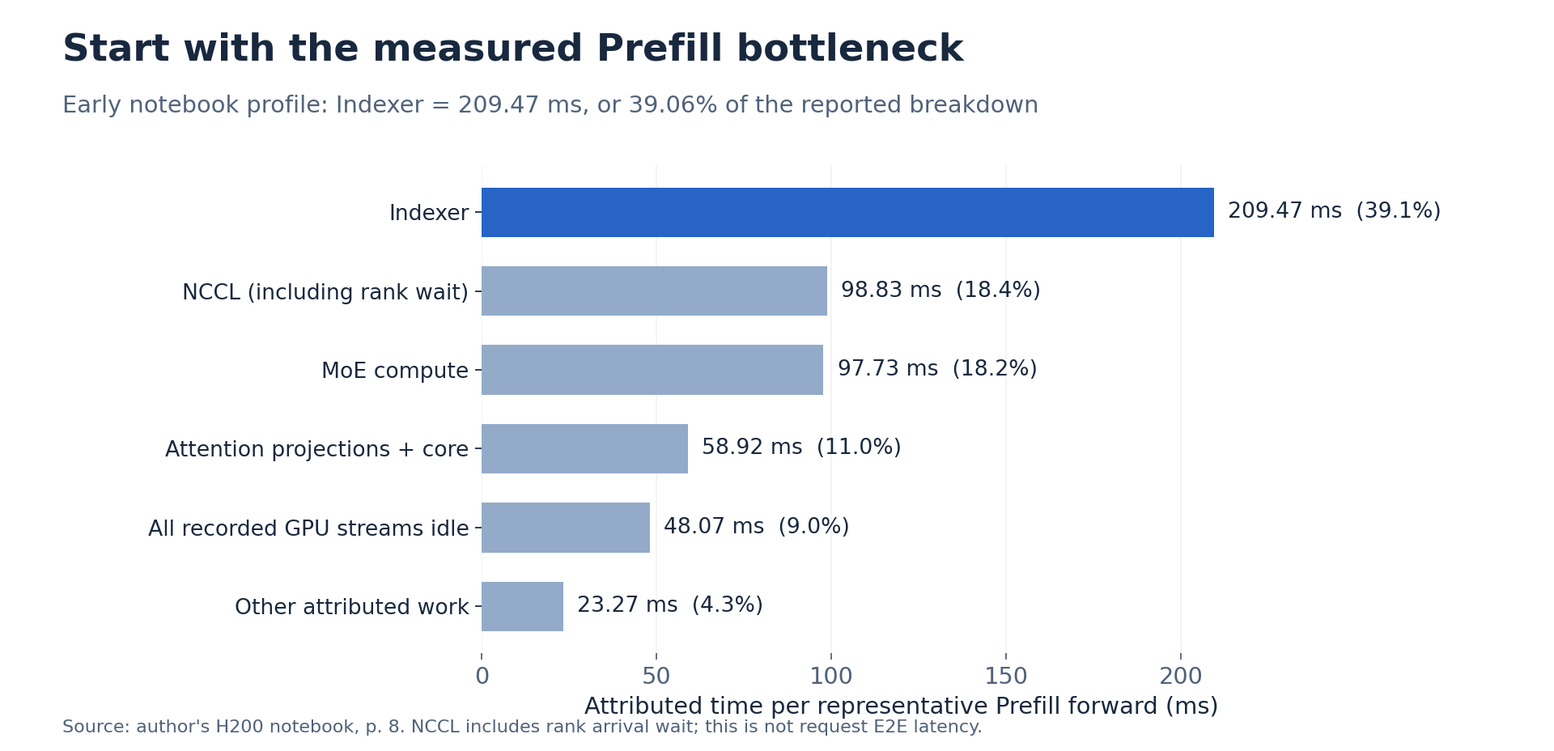
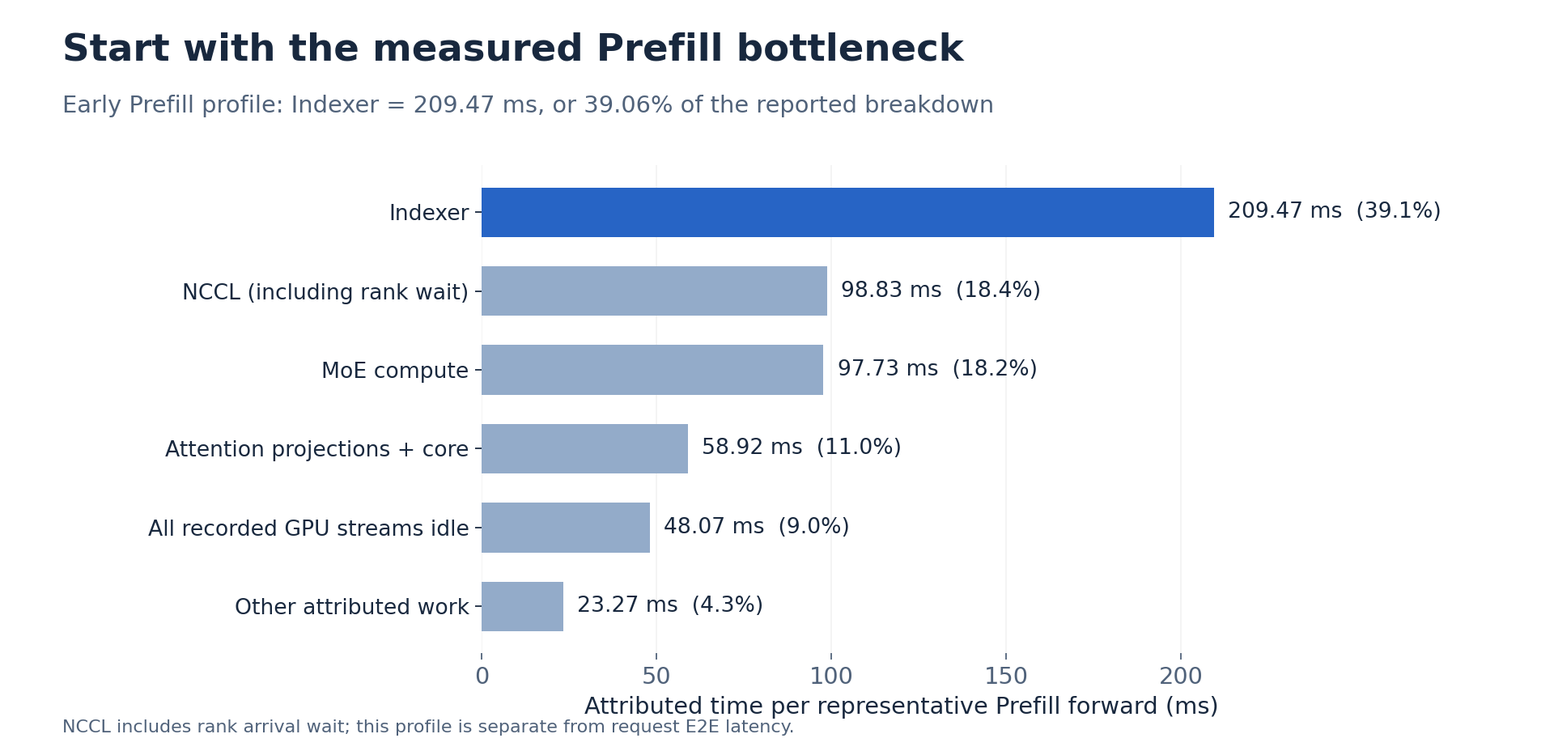
update file

Changed region(s): [[0.0312, 0.9375, 0.5, 1.0], [0.0625, 0.125, 0.6562, 0.1562], [0.5625, 0.9375, 0.625, 0.9688]]

diff --git a/blog/2026-11-05-deepseek-v41-h200-pd-optimization.md b/blog/2026-11-05-deepseek-v41-h200-pd-optimization.md
@@ -28,13 +28,13 @@ The deployment separates prompt processing from token generation. The Prefill wo
 
 *Figure 1. The measured 1P1D topology. The handoff includes the KV and model state required to continue generation. Client-visible TTFT includes queueing and handoff costs as well as Prefill computation.*
 
-The notebook first identified a supply problem on the P side. Requests accumulated in the Prefill queue even at modest concurrency, while the Decode worker's available cache capacity did not explain the queueing. We therefore concentrated on reducing Prefill service time before considering a different P/D ratio.
+We first identified a supply problem on the P side. Requests accumulated in the Prefill queue even at modest concurrency, while the Decode worker's available cache capacity did not explain the queueing. We therefore concentrated on reducing Prefill service time before considering a different P/D ratio.
 
 The evaluated H200 configuration uses the Torch BF16 Prefill Indexer scoring path. Its bottlenecks differ from the Blackwell path that uses DeepGEMM for the relevant Indexer operations. A representative early profile attributed **209.47 ms, or 39.06% of the reported per-forward breakdown, to the Indexer**. MoE computation and NCCL each accounted for approximately another 18%.
 
 ![Early Prefill profile, highlighting Indexer computation and the remaining major costs](/images/blog/deepseek-v41-h200-pd/initial-profile.png)
 
-*Figure 2. Redrawn from the H200 notebook, §2.3–2.4. This is a representative Prefill profile, separate from request E2E latency. NCCL attribution includes waiting for other ranks. The Attention category combines the reported projection and core-attention categories; the smaller remaining compute categories are grouped together.*
+*Figure 2. A representative early Prefill profile, separate from request E2E latency. NCCL attribution includes waiting for other ranks. The Attention category combines the reported projection and core-attention categories; the smaller remaining compute categories are grouped together.*
 
 ### Measurement Setup
 
@@ -42,21 +42,27 @@ We developed the optimizations in this article on top of our earlier [PR #40323]
 
 All baseline and optimized experiments in this article use the **same model weights** from [deepseek-ai/DeepSeek-V4.1-Flash](https://huggingface.co/deepseek-ai/DeepSeek-V4.1-Flash) on Hugging Face.
 
-The workload uses nominal **65,536-token inputs and 512-token outputs**. The case labels **50%, 70%, and 90%** correspond to configured shared-prefix lengths of **32,768, 46,080, and 61,440 tokens**, respectively, with request-specific suffixes of 32,768, 19,456, and 4,096 tokens. Their concurrency levels are 4 and 8; 8 and 16; and 8, 16, 24, and 32. These are nominal case labels; the exact configured prefix fractions are 50.0%, 70.3%, and 93.75%. Figure 6's original 0.93 label refers to the same 61,440-token-prefix case shown as nominal 90% elsewhere.
+The workload uses nominal **65,536-token inputs and 512-token outputs**. The case labels **50%, 70%, and 90%** correspond to configured shared-prefix lengths of **32,768, 46,080, and 61,440 tokens**, respectively, with request-specific suffixes of 32,768, 19,456, and 4,096 tokens. Their concurrency levels are 4 and 8; 8 and 16; and 8, 16, 24, and 32. These are nominal case labels; the exact configured prefix fractions are 50.0%, 70.3%, and 93.75%. Figure 7's original 0.93 label refers to the same 61,440-token-prefix case shown as nominal 90% elsewhere.
 
-Each baseline and optimized serving configuration in this article is benchmarked **three times per workload case**, with **512 requests and 10 warmup requests per run**. Each run produces request-level mean latencies, labeled **TTFT-mean, TPOT-mean, and E2E-mean**. For each metric, we compute the **mean and standard deviation (SD) across the three per-run means**. The reported latency means are therefore averages of three run means; SD describes variation between runs, rather than the spread of individual request latencies within a run.
+Each baseline and optimized serving configuration in this article is benchmarked **three times per workload case**, with **512 requests and 10 warmup requests per run**. Each run produces request-level mean latencies, labeled **TTFT-mean, TPOT-mean, and E2E-mean**. For each metric, we compute the **mean and sample standard deviation (SD) across the three per-run means**. SD is calculated with Python's `statistics.stdev()`, equivalent to **`ddof=1`**, with denominator **`3 − 1 = 2`**. The reported latency means are therefore averages of three run means; SD describes variation between runs, rather than the spread of individual request latencies within a run.
 
-The updated performance screenshots display optimized TTFT and TPOT as **mean/SD**. SD has the same units as its latency metric. The baseline and E2E columns show the three-run means without the corresponding SD values. This serving-benchmark protocol is separate from the kernel microbenchmarks, GPU trace samples, and GSM8K evaluations. The initial Indexer experiments explicitly disable Prefill BCG.
+The updated performance screenshots display optimized TTFT and TPOT as **mean/SD**. SD has the same units as its latency metric. The baseline and E2E columns show the three-run means without the corresponding SD values. Small differences in mean latency should be interpreted alongside run-to-run variation; these summaries alone do not establish statistical significance. This serving-benchmark protocol is separate from the kernel microbenchmarks, GPU trace samples, and GSM8K evaluations. The initial Indexer experiments explicitly disable Prefill BCG.
 
 In the benchmark screenshots, TTFT and E2E latency are in milliseconds; TPOT is in milliseconds per output token. We calculate reductions from the displayed absolute values as `(baseline − optimized) / baseline`. These calculated reductions can differ slightly from the percentages printed in the original screenshots.
 
-The experiments share a development starting point. Sections 1–3 each start from commit `d0a75654368a470d8484e3ea45b06e500fee57af` and evaluate their respective optimizations independently. Section 4 starts from that same commit with all three Indexer optimizations cherry-picked together. Sections 5 and 6 build on the optimizations from Sections 1–4, evaluating MoE output reduce-scatter and bounded replay, respectively. Section 5 reports a separate set of benchmark measurements; Section 6 uses Section 4's reported results as its baseline. Runtime changes and chunk settings follow the individual experiments described below, and complete per-run SGLang revision records are not available for every table. The chunk-size comparison in Section 4 comes from §2.5 of the H200 experiment notebook.
+The experiments share a development starting point. Sections 1–3 each start from commit `d0a75654368a470d8484e3ea45b06e500fee57af` and evaluate their respective optimizations independently. Section 4 starts from that same commit with all three Indexer optimizations cherry-picked together. Sections 5 and 6 build on the optimizations from Sections 1–4, evaluating MoE output reduce-scatter and bounded replay, respectively. Section 5 reports a separate set of benchmark measurements; Section 6 uses Section 4's reported results as its baseline. Runtime changes and chunk settings follow the individual experiments described below, and complete per-run SGLang revision records are not available for every table.
+
+**Pre-optimization performance baseline.** Figure 3 reports the original serving baseline measured at commit `d0a75654368a470d8484e3ea45b06e500fee57af`, before the optimizations described in this article. **SWA bounded replay is disabled**: `--enable-decoder-swa-bounded-replay` is not passed. Both Prefill token limits are **8,192**: **`--chunked-prefill-size 8192`** and **`--max-prefill-tokens 8192`**. These original baseline values are used in the Sections 1–3 comparisons and the overall combined comparison; later sections identify their own baselines with earlier optimizations already applied.
+
+![Pre-optimization serving performance at the original development commit](/images/blog/deepseek-v41-h200-pd/baseline-perf.png)
+
+*Figure 3. Pre-optimization performance baseline at `d0a7565`, with SWA bounded replay disabled and both Prefill token limits set to 8192. TTFT and E2E are in milliseconds; TPOT is in milliseconds per output token. Values are three-run means; SD is not shown.*
 
 The baseline GSM8K evaluation shown below uses **1,319 single-shot examples** and scores **96.74%**, with no request errors or truncated outputs.
 
 ![Baseline GSM8K single-shot accuracy on 1,319 examples](/images/blog/deepseek-v41-h200-pd/baseline-acc.png)
 
-*Figure 3. Baseline GSM8K evaluation: 96.74% accuracy on 1,319 single-shot examples, with 0.00% error and truncated rates.*
+*Figure 4. Baseline GSM8K evaluation: 96.74% accuracy on 1,319 single-shot examples, with 0.00% error and truncated rates.*
 
 ### Model Operations Behind the Optimizations
 
@@ -70,13 +76,13 @@ Sharing has two distinct meanings here. KV consumers share compressed KV and Ind
 
 ![Model execution stages and the locations of the six optimizations](/images/blog/deepseek-v41-h200-pd/model-execution.svg)
 
-*Figure 4. Model execution, separate from GPU allocation in Figure 1. Section numbers identify the six changes. The Indexer branches represent alternative scoring implementations; the detailed compatibility of alignment, candidate scoring, and epilogue fusion is explained after Section 3. MoE follows attention within each model layer. The late-layer tail is an opt-in Prefill approximation, and the Decode metadata change belongs to Section 4.*
+*Figure 5. Model execution, separate from GPU allocation in Figure 1. Section numbers identify the six changes. The Indexer branches represent alternative scoring implementations; the detailed compatibility of alignment, candidate scoring, and epilogue fusion is explained after Section 3. MoE follows attention within each model layer. The late-layer tail is an opt-in Prefill approximation, and the Decode metadata change belongs to Section 4.*
 
 ## 1. Align the BF16 Prefill Indexer Score Width
 
 **Baseline and comparison.** Both configurations start from commit `d0a75654368a470d8484e3ea45b06e500fee57af` and include the same CP request-row mapping fix. The optimized run adds the score-width alignment change from PR #45794. This is an independent comparison with 8,192-token Prefill chunks.
 
-[PR #45794](https://github.com/sgl-project/sglang/pull/45794) addresses a surprising observation: nearby Indexer score widths could have very different GEMM costs. The notebook's cross-rank trace showed much faster execution at a 64-aligned width than at neighboring unaligned widths. Almost identical dimensions and similar strides still resulted in different kernel behavior.
+[PR #45794](https://github.com/sgl-project/sglang/pull/45794) addresses a surprising observation: nearby Indexer score widths could have very different GEMM costs. Cross-rank profiling showed much faster execution at a 64-aligned width than at neighboring unaligned widths. Almost identical dimensions and similar strides still resulted in different kernel behavior.
 
 The scoring operation takes query rows across heads and compares them with the request's visible compressed keys. Its large intermediate has shape `[query_rows, heads, visible_keys]`. Padding the physical key extent can improve the GEMM shape even though it adds a small amount of arithmetic. For example, one extra column changes width 28,799 to 28,800, a multiple of 64. The measured improvement is shape-dependent. More favorable kernel dispatch, tiling, or memory alignment could explain it, but the available traces do not establish the precise hardware cause.
 
@@ -84,7 +90,7 @@ For CUDA BF16 keys with at least 1,024 visible positions, the patch pads the deq
 
 ![Score-width alignment before and after, retaining the logical selection range](/images/blog/deepseek-v41-h200-pd/score-alignment.svg)
 
-*Figure 5. Physical padding improves the GEMM shape while selection still operates on the original logical positions. Padded columns never become eligible candidates.*
+*Figure 6. Physical padding improves the GEMM shape while selection still operates on the original logical positions. Padded columns never become eligible candidates.*
 
 The PR's scoring microbenchmark includes the epilogue and the padding cost:
 
@@ -104,17 +110,17 @@ The patch also reconstructs rank-local request-row mappings when CP supplies no 
 
 ![Original serving benchmark table from PR 45794](/images/blog/deepseek-v41-h200-pd/pr-45794-source.png)
 
-*Figure 6. Serving benchmark for [PR #45794](https://github.com/sgl-project/sglang/pull/45794). Optimized values appear before their baseline columns. TTFT and TPOT are shown as three-run mean/SD; E2E and baseline columns show means only. TTFT and E2E are in milliseconds, and TPOT is in milliseconds per token.*
+*Figure 7. Serving benchmark for [PR #45794](https://github.com/sgl-project/sglang/pull/45794). Optimized values appear before their baseline columns. TTFT and TPOT are shown as three-run mean/SD; E2E and baseline columns show means only. TTFT and E2E are in milliseconds, and TPOT is in milliseconds per token.*
 
 Across the eight displayed cases, TTFT falls by **12.3%–18.2%** and E2E latency by **4.4%–14.8%**. At the 50% cache-hit label and concurrency 4, TTFT changes from **6,245 to 5,108 ms**, while E2E changes from **7,402 to 6,327 ms**. The smaller E2E gain in the 90%/concurrency-8 case illustrates why a scoring-kernel improvement should be checked against the entire request path.
 
 ![CP rank 0 scoring trace with width alignment](/images/blog/deepseek-v41-h200-pd/pr-45794-source-cp-rank0-after.png)
 
-*Figure 7. [PR #45794 trace](https://github.com/sgl-project/sglang/pull/45794), with score-width alignment.*
+*Figure 8. [PR #45794 trace](https://github.com/sgl-project/sglang/pull/45794), with score-width alignment.*
 
 ![CP rank 0 scoring trace before width alignment](/images/blog/deepseek-v41-h200-pd/pr-45794-source-cp-rank0-before.png)
 
-*Figure 8. [PR #45794 trace](https://github.com/sgl-project/sglang/pull/45794), before score-width alignment.*
+*Figure 9. [PR #45794 trace](https://github.com/sgl-project/sglang/pull/45794), before score-width alignment.*
 
 The CP rank 0 screenshots compare the scoring kernel at the same logical shape: its duration falls from **1.88 ms to 362 µs**.
 
@@ -122,7 +128,7 @@ The supplied GSM8K evaluation for score-width alignment scores **96.74%** on **1
 
 ![GSM8K accuracy with score-width alignment from PR 45794](/images/blog/deepseek-v41-h200-pd/pr-45794-acc.png)
 
-*Figure 9. GSM8K evaluation with Section 1's score-width alignment: 96.74% accuracy on 1,319 single-shot examples, with 0.00% error and truncated rates.*
+*Figure 10. GSM8K evaluation with Section 1's score-width alignment: 96.74% accuracy on 1,319 single-shot examples, with 0.00% error and truncated rates.*
 
 *Launch settings: use the [shared commands and configuration table](#prefill-and-decode-launch-commands) for Section 1.*
 
@@ -153,7 +159,7 @@ The patch moves the restriction before scoring. A Triton kernel uses the block I
 
 ![Candidate-aware key loading and compact score selection](/images/blog/deepseek-v41-h200-pd/candidate-scoring.svg)
 
-*Figure 10. Candidate filtering moves ahead of the dot product. The publisher, candidate budget, and consumer selection domain remain unchanged.*
+*Figure 11. Candidate filtering moves ahead of the dot product. The publisher, candidate budget, and consumer selection domain remain unchanged.*
 
 Selected compact columns must then be translated back correctly. Each pick identifies a candidate block and an offset within that block; `block_id × block_size + offset` reconstructs the request-local key position, which is then mapped to the physical KV slot. An index in the compact score array is not itself a KV-cache address.
 
@@ -161,17 +167,17 @@ The optimized path requires CUDA BF16 operands, a head dimension of 128, at most
 
 ![Original serving benchmark table from PR 46003](/images/blog/deepseek-v41-h200-pd/pr-46003-source.png)
 
-*Figure 11. Serving benchmark for [PR #46003](https://github.com/sgl-project/sglang/pull/46003). This independent experiment uses the same starting development revision as Sections 1 and 3.*
+*Figure 12. Serving benchmark for [PR #46003](https://github.com/sgl-project/sglang/pull/46003). This independent experiment uses the same starting development revision as Sections 1 and 3.*
 
 The displayed TTFT reductions are **22.9%–32.5%**, with **8.3%–22.1% lower E2E latency**. At the 70% label and concurrency 8, TTFT changes from **8,061 to 5,944 ms** and E2E from **9,228 to 7,191 ms**. At the 90% label and concurrency 16, TTFT changes from **2,846 to 1,922 ms**, a **32.5%** reduction.
 
 ![CP rank 0 trace with candidate-only scoring](/images/blog/deepseek-v41-h200-pd/pr-46003-source-rank0-after.png)
 
-*Figure 12. [PR #46003 trace](https://github.com/sgl-project/sglang/pull/46003), with candidate-only scoring.*
+*Figure 13. [PR #46003 trace](https://github.com/sgl-project/sglang/pull/46003), with candidate-only scoring.*
 
 ![CP rank 0 trace before candidate-only scoring](/images/blog/deepseek-v41-h200-pd/pr-46003-source-rank0-before.png)
 
-*Figure 13. [PR #46003 trace](https://github.com/sgl-project/sglang/pull/46003), before candidate-only scoring.*
+*Figure 14. [PR #46003 trace](https://github.com/sgl-project/sglang/pull/46003), before candidate-only scoring.*
 
 At the same logical problem shape, the displayed CP rank 0 scoring-kernel duration falls from **1.88 to 1.147 ms**. The optimized kernel computes a smaller candidate domain, so its physical output shape differs from the baseline's dense score tensor.
 
@@ -179,7 +185,7 @@ The local validation reported exact score/top-k agreement for tested model-style
 
 ![GSM8K accuracy with candidate-only scoring from PR 46003](/images/blog/deepseek-v41-h200-pd/pr-46003-acc.png)
 
-*Figure 14. GSM8K evaluation with Section 2's candidate-only scoring: 96.74% accuracy on 1,319 single-shot examples, with 0.00% error and truncated rates.*
+*Figure 15. GSM8K evaluation with Section 2's candidate-only scoring: 96.74% accuracy on 1,319 single-shot examples, with 0.00% error and truncated rates.*
 
 *Launch settings: use the [shared commands and configuration table](#prefill-and-decode-launch-commands) for Section 2.*
 
@@ -189,13 +195,13 @@ The local validation reported exact score/top-k agreement for tested model-style
 
 [PR #45807](https://github.com/sgl-project/sglang/pull/45807) keeps the existing score GEMM and reduces the work that follows it.
 
-The original sequence materializes the large BF16 per-head scores, applies ReLU, multiplies by head weights, reduces across heads, and converts the result to FP32. Separate elementwise operations repeatedly read and write `[query_rows, heads, context]` tensors. The notebook attributed approximately **104.8 ms per representative forward** to the multiplication, clamp/ReLU, and reduction operations, making this a substantial target after inspecting the GEMM itself.
+The original sequence materializes the large BF16 per-head scores, applies ReLU, multiplies by head weights, reduces across heads, and converts the result to FP32. Separate elementwise operations repeatedly read and write `[query_rows, heads, context]` tensors. Profiling attributed approximately **104.8 ms per representative forward** to the multiplication, clamp/ReLU, and reduction operations, making this a substantial target after inspecting the GEMM itself.
 
 The patch replaces that epilogue with one Triton kernel for the supported 32-head CUDA BF16 path. The GEMM's per-head output still exists; the later full-sized intermediates disappear.
 
 ![Separate score postprocessing operations compared with one fused Triton epilogue](/images/blog/deepseek-v41-h200-pd/epilogue-fusion.svg)
 
-*Figure 15. Fusion removes intermediate memory traffic and launches after GEMM. It preserves the numerical effects of the reference operations.*
+*Figure 16. Fusion removes intermediate memory traffic and launches after GEMM. It preserves the numerical effects of the reference operations.*
 
 Numerical behavior matters because top-k consumes these scores. Two nearly tied keys can swap order at the selection threshold after a small rounding change, altering which KV entries attention reads. The kernel preserves BF16 rounding after multiplication and reduction and uses four interleaved accumulators to reproduce the tested Torch/CUDA 32-head accumulation order. A final conversion to FP32 cannot restore precision already lost at an earlier BF16 cast. Keeping the same mathematical formula while changing these rounding points or the summation order can therefore change selection. The reported parity applies to the tested reference implementation and supported layouts.
 
@@ -203,17 +209,17 @@ Context-dependent row and head strides remain runtime arguments, avoiding a sepa
 
 ![Original serving benchmark table from PR 45807](/images/blog/deepseek-v41-h200-pd/pr-45807-source.png)
 
-*Figure 16. Serving benchmark for [PR #45807](https://github.com/sgl-project/sglang/pull/45807). The fused epilogue comparison retains the existing GEMM.*
+*Figure 17. Serving benchmark for [PR #45807](https://github.com/sgl-project/sglang/pull/45807). The fused epilogue comparison retains the existing GEMM.*
 
 Across the displayed cases, TTFT falls by **19.8%–25.8%** and E2E by **4.3%–18.2%**. At the 50% label and concurrency 4, TTFT changes from **6,245 to 4,850 ms** and E2E from **7,402 to 6,099 ms**. At the 90% label and concurrency 16, TPOT remains **3.17 ms/token**; it increases in the other seven displayed cases.
 
 ![CP rank 0 GEMM and fused epilogue trace](/images/blog/deepseek-v41-h200-pd/pr-45807-source-rank0-after.png)
 
-*Figure 17. [PR #45807 trace](https://github.com/sgl-project/sglang/pull/45807), showing GEMM followed by the fused epilogue.*
+*Figure 18. [PR #45807 trace](https://github.com/sgl-project/sglang/pull/45807), showing GEMM followed by the fused epilogue.*
 
 ![CP rank 0 GEMM and separate score postprocessing trace](/images/blog/deepseek-v41-h200-pd/pr-45807-source-rank0-before.png)
 
-*Figure 18. [PR #45807 trace](https://github.com/sgl-project/sglang/pull/45807), showing GEMM and separate score postprocessing.*
+*Figure 19. [PR #45807 trace](https://github.com/sgl-project/sglang/pull/45807), showing GEMM and separate score postprocessing.*
 
 The selected CP rank 0 trace interval, covering GEMM and score postprocessing, falls from **4.243 to 2.26 ms**. This is the displayed region's elapsed duration, rather than the duration of the epilogue alone or the entire forward pass.
 
@@ -221,7 +227,7 @@ The PR reports exact agreement in its local scoring, rounding-boundary, and inte
 
 ![GSM8K accuracy with fused score epilogue from PR 45807](/images/blog/deepseek-v41-h200-pd/pr-45807-acc.png)
 
-*Figure 19. GSM8K evaluation with Section 3's fused score epilogue: 96.59% accuracy on 1,319 single-shot examples, with 0.00% error and truncated rates.*
+*Figure 20. GSM8K evaluation with Section 3's fused score epilogue: 96.59% accuracy on 1,319 single-shot examples, with 0.00% error and truncated rates.*
 
 ### How the Three Indexer Changes Combine
 
@@ -246,7 +252,7 @@ We cherry-picked the optimizations from Sections 1–3 onto commit `d0a75654368a
 
 ![Sections 1–3 combined serving benchmark results](/images/blog/deepseek-v41-h200-pd/Chapter-123-Aggregation-result.png)
 
-*Figure 20. Sections 1–3 combined, with 8K Prefill chunks. The original baseline is shown in the baseline columns; the combined results become Section 4's 8K baseline.*
+*Figure 21. Sections 1–3 combined, with 8K Prefill chunks. The original baseline is shown in the baseline columns; the combined results become Section 4's 8K baseline.*
 
 ## 4. Larger Prefill Chunks and Decode Graph Metadata
 
@@ -256,11 +262,11 @@ With an 8,192-token chunk, a long uncached suffix requires several Prefill forwa
 
 The same investigation exposed a Decode-side CUDA graph metadata problem: reading CUDA sequence lengths back to the host with `.tolist()` during capture could fail and force the metadata path to run eagerly. This work was tracked in [PR #46777](https://github.com/sgl-project/sglang/pull/46777).
 
-The merged PR prevents the draft metadata glue graph from running when a backend requires host sequence lengths and removes an unused `seq_lens.sum().item()` read during Decode graph capture. Its description notes that the original host-read fixes landed separately in #46891 and #46897. Under the current DSpark configuration, the host-length guard is defensive because `needs_cpu_seq_lens` is already false. The table below reports the notebook's chunk-size experiment; it does not isolate the performance impact of the guard.
+The merged PR prevents the draft metadata glue graph from running when a backend requires host sequence lengths and removes an unused `seq_lens.sum().item()` read during Decode graph capture. Its description notes that the original host-read fixes landed separately in #46891 and #46897. Under the current DSpark configuration, the host-length guard is defensive because `needs_cpu_seq_lens` is already false. The table below reports the chunk-size experiment; it does not isolate the performance impact of the guard.
 
 ![Larger Prefill chunks reduce scheduling rounds, while Decode graph metadata avoids unnecessary host reads](/images/blog/deepseek-v41-h200-pd/chunk-prefill-graph.svg)
 
-*Figure 21. An illustrative 16,384-token uncached suffix requires two 8,192-token chunks or one 16,384-token chunk. The Decode metadata work tracked in [PR #46777](https://github.com/sgl-project/sglang/pull/46777) addresses graph-capture constraints separately from the choice of Prefill chunk size.*
+*Figure 22. An illustrative 16,384-token uncached suffix requires two 8,192-token chunks or one 16,384-token chunk. The Decode metadata work tracked in [PR #46777](https://github.com/sgl-project/sglang/pull/46777) addresses graph-capture constraints separately from the choice of Prefill chunk size.*
 
 ### Data Summary: 8,192 → 16,384 Prefill Tokens
 
@@ -268,7 +274,7 @@ The optimized columns use 16,384-token chunks; the baseline columns use 8,192-to
 
 ![Serving benchmark comparing 8,192-token and 16,384-token Prefill chunks](/images/blog/deepseek-v41-h200-pd/Chapter-4-source.png)
 
-*Figure 22. Section 4's chunk-size comparison. The baseline is the 8K configuration with the three Indexer changes from Sections 1–3; the optimized columns use 16K chunks. Optimized TTFT and TPOT are three-run mean/SD; E2E and baseline columns show three-run means only.*
+*Figure 23. Section 4's chunk-size comparison. The baseline is the 8K configuration with the three Indexer changes from Sections 1–3; the optimized columns use 16K chunks. Optimized TTFT and TPOT are three-run mean/SD; E2E and baseline columns show three-run means only.*
 
 TTFT falls in every displayed case, with the largest reduction of **31.3%** at the 90% label and concurrency 24. E2E improves in **seven of eight cases**, with the largest reduction of **15.8%** at the 90% label and concurrency 32. At the 50% and 70% labels, TPOT also decreases by approximately **20.1%–21.4%**.
 
@@ -280,7 +286,7 @@ The supplied GSM8K evaluation for the Section 4 configuration scores **96.59%** 
 
 ![GSM8K accuracy for the Section 4 larger-chunk configuration](/images/blog/deepseek-v41-h200-pd/Chapter-4-acc.jpg)
 
-*Figure 23. GSM8K evaluation for Section 4: 96.59% accuracy on 1,319 single-shot examples, with a 0.15% truncated rate and 0.00% error rate.*
+*Figure 24. GSM8K evaluation for Section 4: 96.59% accuracy on 1,319 single-shot examples, with a 0.15% truncated rate and 0.00% error rate.*
 
 *Launch settings: use the [shared commands and configuration table](#prefill-and-decode-launch-commands) for Section 4.*
 
@@ -288,7 +294,7 @@ The supplied GSM8K evaluation for the Section 4 configuration scores **96.59%** 
 
 **Baseline and comparison.** The baseline starts from commit `d0a75654368a470d8484e3ea45b06e500fee57af` with the **optimizations from Sections 1–4 already applied**: the Indexer changes from PR #45794, PR #46003, and PR #45807, together with the larger-chunk and Decode graph-metadata setup described in Section 4. Both configurations use 16,384-token Prefill chunks. The optimized configuration adds the MoE output reduce-scatter change from PR #47247.
 
-Once the largest Indexer costs were reduced, the notebook's next profiling pass shifted attention toward MoE and collectives. [PR #47247](https://github.com/sgl-project/sglang/pull/47247) examines the ownership of the MoE output rows.
+Once the largest Indexer costs were reduced, a subsequent profiling pass shifted attention toward MoE and collectives. [PR #47247](https://github.com/sgl-project/sglang/pull/47247) examines the ownership of the MoE output rows.
 
 On DeepSeek-V4.1's CP MoE return path, the original implementation first all-reduced the full expert output. Every rank received all reduced rows, then selected its CP shard and made it contiguous. When TP=CP=4 and both span the same GPU group, each rank ultimately needs only one quarter of those rows.
 
@@ -302,7 +308,7 @@ Reduce-scatter expresses that requirement directly: reduce the full input contri
 
 ![All-reduce followed by slicing compared with direct reduce-scatter](/images/blog/deepseek-v41-h200-pd/moe-reduce-scatter.svg)
 
-*Figure 24. The change targets DeepSeek-V4.1's `cp_return_contiguous` MoE branch with no MoE all-to-all backend. Each shard is contiguous within the packed, rank-major buffer; its original prompt positions can remain interleaved. The separate `cp_return_contiguous=False` branch already uses a reduce-scatter helper. That branch selection is distinct from the CLI option `--cp-strategy interleave`.*
+*Figure 25. The change targets DeepSeek-V4.1's `cp_return_contiguous` MoE branch with no MoE all-to-all backend. Each shard is contiguous within the packed, rank-major buffer; its original prompt positions can remain interleaved. The separate `cp_return_contiguous=False` branch already uses a reduce-scatter helper. That branch selection is distinct from the CLI option `--cp-strategy interleave`.*
 
 The gate requires CUDA/non-HIP tensors, matching TP/CP/group sizes, and a nonzero row count divisible by CP size. Other configurations retain the original fallback. The quarter-sized output at CP4 describes ownership, not a fourfold collective speedup.
 
@@ -327,9 +333,9 @@ The denominator already explains much of the apparent gap: as a simple illustrat
 
 ![Original serving benchmark table from PR 47247](/images/blog/deepseek-v41-h200-pd/pr-47247-source.png)
 
-*Figure 25. Serving benchmark for [PR #47247](https://github.com/sgl-project/sglang/pull/47247), with the optimizations from Sections 1–4 already included in the baseline. Percentages discussed here are recalculated from the displayed absolute values.*
+*Figure 26. Serving benchmark for [PR #47247](https://github.com/sgl-project/sglang/pull/47247), with the optimizations from Sections 1–4 already included in the baseline. Percentages discussed here are recalculated from the displayed absolute values.*
 
-These serving measurements were recorded separately from Section 4's chunk-size comparison, and their baseline latencies differ from the results in Figure 22. The exact final runtime revisions for these runs are not pinned in this article, so the remaining numerical differences cannot be attributed to a specific runtime change here.
+These serving measurements were recorded separately from Section 4's chunk-size comparison, and their baseline latencies differ from the results in Figure 23. The exact final runtime revisions for these runs are not pinned in this article, so the remaining numerical differences cannot be attributed to a specific runtime change here.
 
 The serving table shows **0.8%–3.4% lower E2E latency**. At the 90% label and concurrency 24, TPOT improves from **5.18 to 4.79 ms/token**, but TTFT increases from **1,829 to 1,993 ms**. E2E therefore improves by only **0.8%**, from **4,476 to 4,441 ms**.
 
@@ -337,7 +343,7 @@ The supplied full GSM8K evaluation for MoE reduce-scatter scores **95.83%** on *
 
 ![GSM8K accuracy with MoE reduce-scatter from PR 47247](/images/blog/deepseek-v41-h200-pd/pr-47247-acc.png)
 
-*Figure 26. GSM8K evaluation with Section 5's MoE reduce-scatter: 95.83% accuracy on 1,319 single-shot examples, with 0.00% error and truncated rates.*
+*Figure 27. GSM8K evaluation with Section 5's MoE reduce-scatter: 95.83% accuracy on 1,319 single-shot examples, with 0.00% error and truncated rates.*
 
 *Launch settings: use the [shared commands and configuration table](#prefill-and-decode-launch-commands) for Section 5.*
 
@@ -367,7 +373,7 @@ Thus compact rows `0…127` correspond to original positions `16256…16383`. Bo
 
 ![Tail-aware CP gathering for bounded replay and DSpark](/images/blog/deepseek-v41-h200-pd/bounded-replay.svg)
 
-*Figure 27. The compatibility fix preserves compact hidden states, DSpark auxiliary states, and their original global token indices. The illustrated 32-row local tail is a single-request example; mixed requests require their own tail metadata.*
+*Figure 28. The compatibility fix preserves compact hidden states, DSpark auxiliary states, and their original global token indices. The illustrated 32-row local tail is a single-request example; mixed requests require their own tail metadata.*
 
 The patch adds a model-specific `postprocess_cp_output` hook. DeepSeek's hook gathers hidden and auxiliary states using tail-specific CP metadata, aligns logits and DSpark consumers with the original global token indices, and restores the original batch metadata in a `finally` block. The ordinary forward path and the eager CP path share this output postprocessing.
 
@@ -375,7 +381,7 @@ This allows bounded replay to be explicitly enabled for eager CP Prefill. The de
 
 ![Original serving benchmark table from PR 47406](/images/blog/deepseek-v41-h200-pd/pr-47406-source.png)
 
-*Figure 28. Serving benchmark for [PR #47406](https://github.com/sgl-project/sglang/pull/47406). Its baseline is the resulting configuration from Section 4.*
+*Figure 29. Serving benchmark for [PR #47406](https://github.com/sgl-project/sglang/pull/47406). Its baseline is the resulting configuration from Section 4.*
 
 The reported TTFT reduction ranges from **13.6% to 46.7%**. At the 70% label and concurrency 8, TTFT drops from **4,301 to 2,294 ms** and E2E from **5,358 to 3,588 ms**. The largest E2E reduction is **34.3%**, at the 50% label and concurrency 8.
 
@@ -385,7 +391,7 @@ The PR reports four-rank validation of token mappings and metadata restoration, 
 
 ![Full GSM8K accuracy with bounded replay and the CP DSpark fix from PR 47406](/images/blog/deepseek-v41-h200-pd/pr-47406-acc.png)
 
-*Figure 29. Full GSM8K evaluation for Section 6's bounded-replay configuration: 95.38% accuracy on 1,319 single-shot examples, with a 0.08% truncated rate and 0.00% error rate.*
+*Figure 30. Full GSM8K evaluation for Section 6's bounded-replay configuration: 95.38% accuracy on 1,319 single-shot examples, with a 0.08% truncated rate and 0.00% error rate.*
 
 *Launch settings: use the [shared commands and configuration table](#prefill-and-decode-launch-commands) for Section 6.*
 
@@ -395,9 +401,9 @@ The five PR comparisons in Sections 1–3, 5, and 6 act at different levels: ten
 
 ![Per-PR E2E reductions across the eight reported cache-hit and concurrency cases](/images/blog/deepseek-v41-h200-pd/pr-e2e-comparison.png)
 
-*Figure 30. Redrawn from the five per-PR serving benchmark screenshots. Rows retain the order #45794, #47406, #47247, #46003, and #45807, corresponding to Sections 1, 6, 5, 2, and 3. Each cell shows the reduction and baseline → optimized three-run mean E2E latency in milliseconds. Sections 1–3 use independent comparisons from the common starting revision. The baselines for Sections 5 and 6 include the optimizations from Sections 1–4; Section 5 uses separately recorded measurements, while Section 6 uses Section 4's reported results. The row percentages cannot be added or multiplied to infer a combined result.*
+*Figure 31. Redrawn from the five per-PR serving benchmark screenshots. Rows retain the order #45794, #47406, #47247, #46003, and #45807, corresponding to Sections 1, 6, 5, 2, and 3. Each cell shows the reduction and baseline → optimized three-run mean E2E latency in milliseconds. Sections 1–3 use independent comparisons from the common starting revision. The baselines for Sections 5 and 6 include the optimizations from Sections 1–4; Section 5 uses separately recorded measurements, while Section 6 uses Section 4's reported results. The row percentages cannot be added or multiplied to infer a combined result.*
 
-The following **table** compares the early baseline with the recorded combined serving configuration, showing three-run mean latencies without the corresponding SD values. The baseline has bounded replay disabled and uses 8,192 for both `--chunked-prefill-size` and `--max-prefill-tokens`; the combined configuration enables bounded replay and uses 16,384-token chunks. These are configuration-level results, rather than an isolated measurement of any single runtime change.
+The following **table** compares the original baseline shown in Figure 3, measured at commit `d0a75654368a470d8484e3ea45b06e500fee57af`, with the recorded combined serving configuration, showing three-run mean latencies without the corresponding SD values. The baseline has SWA bounded replay disabled and uses 8,192 for both `--chunked-prefill-size` and `--max-prefill-tokens`; the combined configuration enables bounded replay and uses 16,384-token chunks. These are configuration-level results, rather than an isolated measurement of any single runtime change.
 
 <div role="region" aria-label="Historical combined benchmark results" tabindex="0" style="overflow-x: auto;">
 <div style="min-width: 800px;">
@@ -426,7 +432,7 @@ The supplied **final combined configuration** scores **95.38%** on **1,319 singl
 
 ![GSM8K accuracy with all optimizations combined](/images/blog/deepseek-v41-h200-pd/Final-optimization-integration-acc.png)
 
-*Figure 31. GSM8K evaluation with all optimizations combined: 95.38% accuracy on 1,319 single-shot examples. The baseline result is shown in Figure 3.*
+*Figure 32. GSM8K evaluation with all optimizations combined: 95.38% accuracy on 1,319 single-shot examples. The baseline result is shown in Figure 4.*
 
 ## Reproduction
 
@@ -440,16 +446,17 @@ Assign four H200 GPUs to Prefill with TP4 / CP4 / EP4 and four to Decode with TP
 
 | Comparison | Prefill chunk size, baseline → optimized | Bounded replay on Prefill, baseline → optimized |
 | --- | --- | --- |
+| Original baseline (Figure 3) | 8192 (baseline only) | off (baseline only) |
 | Section 1: score-width alignment | 8192 → 8192 | off → off |
 | Section 2: candidate-only scoring | 8192 → 8192 | off → off |
 | Section 3: epilogue fusion | 8192 → 8192 | off → off |
-| Figure 20: Sections 1–3 combined | 8192 → 8192 | off → off |
+| Figure 21: Sections 1–3 combined | 8192 → 8192 | off → off |
 | Section 4: larger chunks | 8192 → 16384 | off → off |
 | Section 5: MoE reduce-scatter | 16384 → 16384 | off → off |
 | Section 6: bounded replay and CP/DSpark fix | 16384 → 16384 | off → on |
 | Overall combined comparison | 8192 → 16384 | off → on |
 
-Set `CHUNK_SIZE` to the required column. Keep `BOUNDED_REPLAY_ARGS=()` when bounded replay is off; set it to `(--enable-decoder-swa-bounded-replay)` when it is on. The bounded-replay flag is enabled on the Prefill worker despite its decoder-side name. Keep Prefill graphs disabled for this CP/bounded-replay recipe.
+Set `CHUNK_SIZE` to the required column. Keep `BOUNDED_REPLAY_ARGS=()` when bounded replay is off; set it to `(--enable-decoder-swa-bounded-replay)` when it is on. For the original baseline in Figure 3, use commit `d0a75654368a470d8484e3ea45b06e500fee57af`, `CHUNK_SIZE=8192`, and `BOUNDED_REPLAY_ARGS=()`. The shared Prefill command applies `CHUNK_SIZE` to both `--chunked-prefill-size` and `--max-prefill-tokens`. The bounded-replay flag is enabled on the Prefill worker despite its decoder-side name. Keep Prefill graphs disabled for this CP/bounded-replay recipe.
 
 The server commands and benchmark script use `/models/DeepSeek-V4.1-Flash/` for a local copy of the model weights linked in Measurement Setup. Update `--model-path` and `MODEL_PATH` together if your local directory differs.
 
@@ -457,7 +464,7 @@ The server commands and benchmark script use `/models/DeepSeek-V4.1-Flash/` for 
 <summary>Shared Prefill launch command</summary>
 
 ```bash
-# Default: Sections 1–3, Figure 20, or Section 4's 8K baseline.
+# Default: original baseline, Sections 1–3, Figure 21, or Section 4's 8K baseline.
 CHUNK_SIZE=8192
 BOUNDED_REPLAY_ARGS=()
 # Set CHUNK_SIZE=16384 where required by the table.
@@ -516,7 +523,7 @@ sgl-eval run gsm8k --base-url http://127.0.0.1:8009/v1 --num-threads 64 --max-to
 
 ### Performance Benchmark Script
 
-The script below invokes the benchmark **three times for each cache-hit and concurrency case** for the selected server configuration, with **512 requests and 10 warmup requests in each run**. Send the workload through the router and keep the input data, model weights, generation settings, and streaming configuration fixed when isolating an optimization. Retain each run's TTFT-mean, TPOT-mean, E2E-mean, and successful and failed request counts. After the three runs, compute the mean and standard deviation of each metric's three per-run means, using the screenshots' mean/SD format where both statistics are reported. The script runs the benchmarks; aggregation of their results is a separate step. Apply the same protocol to both the baseline and optimized configurations.
+The script below invokes the benchmark **three times for each cache-hit and concurrency case** for the selected server configuration, with **512 requests and 10 warmup requests in each run**. Send the workload through the router and keep the input data, model weights, generation settings, and streaming configuration fixed when isolating an optimization. Retain each run's TTFT-mean, TPOT-mean, E2E-mean, and successful and failed request counts. After the three runs, aggregate each metric's three per-run means with `statistics.mean()` and `statistics.stdev()` (sample SD, equivalent to `ddof=1`), using the screenshots' mean/SD format where both statistics are reported. The script runs the benchmarks; aggregation of their results is a separate step. Apply the same protocol to both the baseline and optimized configurations.
 
 ```bash
 MODEL_PATH="/models/DeepSeek-V4.1-Flash"
